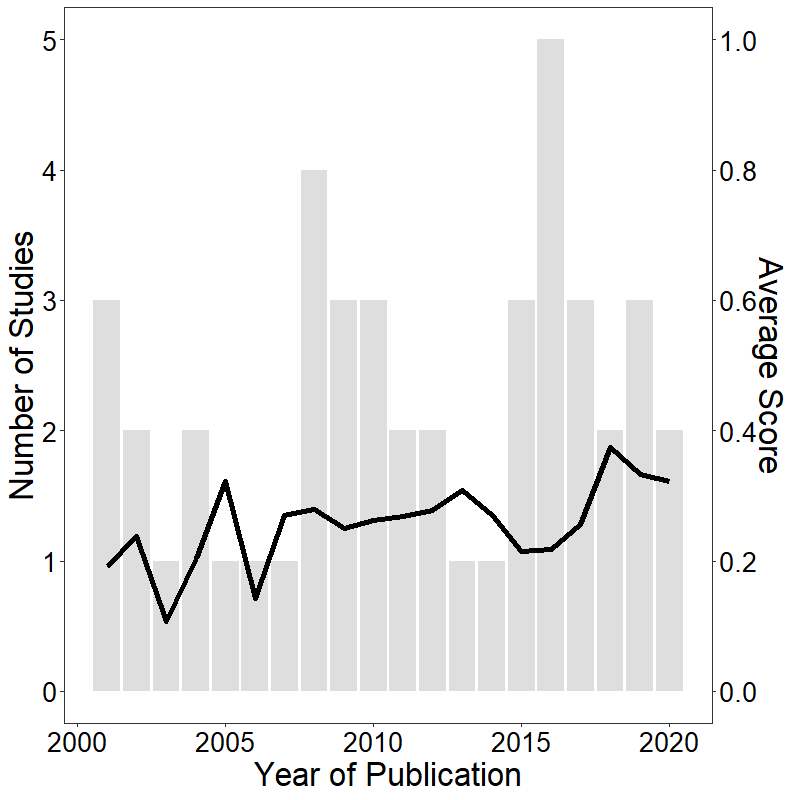
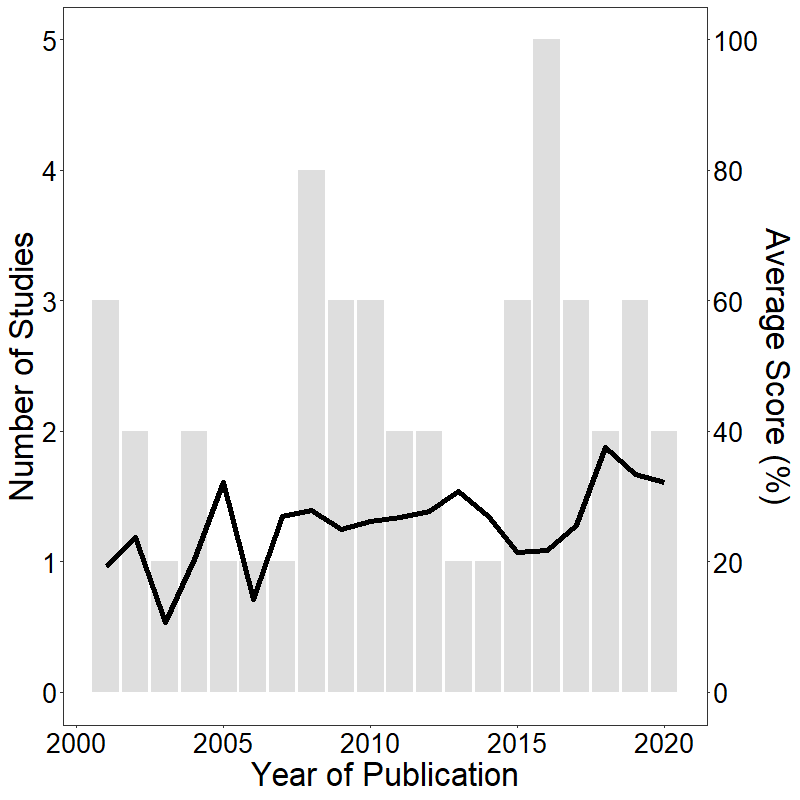
Script - Streamlined and updated the annotations Scores - Minor updates Minor updates for figures

diff --git a/README.md b/README.md
@@ -1,9 +1,11 @@
 # repro
 Reproducibility &amp; Open Science in Invasion Ecology
 
-
 Files
 
-1) Figure 2 - Figure 2 in the manuscript, which illustrate the relationship between final scores and publication year.
-2) by-study - csv with data used for analyses
-3) repro - code used for analyses
+1) Figure 2 - Figure 2 in the manuscript - scores by year and publication year.
+2) Figure 3 - Figure 2 in the manuscript, scores by item
+3) Figure S1 - Figure 2 in Supplementary (end of MS), scores by item w/ plots for each item
+4) repro - code
+5) Scores - data
+
